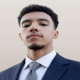
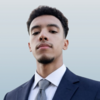
Handle main template view displaying account breif info in the nav bar

diff --git a/src/main/java/com/effortcure/service/implementation/AccountService.java b/src/main/java/com/effortcure/service/implementation/AccountService.java
@@ -3,6 +3,7 @@ package com.effortcure.service.implementation;
 import com.effortcure.api.AccountApi;
 import com.effortcure.dto.request.ChangePasswordRequestDTO;
 import com.effortcure.dto.response.ApiResponse;
+import com.effortcure.dto.response.BreifAccountInfoResponseDTO;
 import com.effortcure.navigator.SceneManager;
 import com.effortcure.service.interfaces.AccountServiceInterface;
 import com.effortcure.service.interfaces.AuthServiceInterface;
@@ -25,6 +26,25 @@ public class AccountService implements AccountServiceInterface {
             }
             if (response.getStatus() == 200) {
                 authServiceInterface.logout();
+            }
+            if (response.getStatus() == 401) {
+                SceneManager.switchScene("/fxml/login-page.fxml", null);
+                authServiceInterface.logout();
+            }
+        } else {
+            SceneManager.switchScene("/fxml/login-page.fxml", null);
+            authServiceInterface.logout();
+        }
+        return response;
+    }
+
+    @Override
+    public ApiResponse<BreifAccountInfoResponseDTO> getBreifAccountInfo() throws Exception {
+        ApiResponse<BreifAccountInfoResponseDTO> response = accountApi.getBreifAccountInfo();
+        if (response != null) {
+            if (response.getStatus() == 400) {
+                authServiceInterface.refreshAccessAndRefreshTokens();
+                response = accountApi.getBreifAccountInfo();
             }
             if (response.getStatus() == 401) {
                 SceneManager.switchScene("/fxml/login-page.fxml", null);

diff --git a/src/main/java/com/effortcure/controller/MainTemplateController.java b/src/main/java/com/effortcure/controller/MainTemplateController.java
@@ -1,7 +1,12 @@
 package com.effortcure.controller;
 
+import com.effortcure.dto.response.ApiResponse;
+import com.effortcure.dto.response.BreifAccountInfoResponseDTO;
+import com.effortcure.service.implementation.AccountService;
+import com.effortcure.service.interfaces.AccountServiceInterface;
 import com.effortcure.util.ViewUtil;
 
+import javafx.concurrent.Task;
 import javafx.fxml.FXML;
 import javafx.scene.control.Button;
 import javafx.scene.control.Hyperlink;
@@ -122,8 +127,26 @@ public class MainTemplateController {
     @FXML
     private Pane rightControlsPane;
 
+    private AccountServiceInterface accountServiceInterface = new AccountService();
+
     @FXML
     private void initialize() {
+        Task<Void> task = new Task<>() {
+            @Override
+            protected Void call() throws Exception {
+                ApiResponse<BreifAccountInfoResponseDTO> response = accountServiceInterface.getBreifAccountInfo();
+                if (response != null) {
+                    if (response.getStatus() == 200) {
+                        userNameLabel.setText(response.getData().getUsername());
+                        valueText.setText(
+                                (response.getData().getDws()) != null ? response.getData().getDws().toString() : null);
+                        planLabel.setText(response.getData().getPlan());
+                    }
+                }
+                return null;
+            }
+        };
+        new Thread(task).run();
         ViewUtil.initiateResponsiveView(this);
     }
 

diff --git a/src/main/java/com/effortcure/MainApp.java b/src/main/java/com/effortcure/MainApp.java
@@ -1,8 +1,9 @@
 package com.effortcure;
 
-import java.io.IOException;
-
+import com.effortcure.auth.RefreshTokenManager;
 import com.effortcure.navigator.SceneManager;
+import com.effortcure.service.implementation.AuthService;
+import com.effortcure.service.interfaces.AuthServiceInterface;
 import com.effortcure.util.ViewUtil;
 
 import javafx.application.Application;
@@ -10,14 +11,20 @@ import javafx.stage.Stage;
 
 public class MainApp extends Application {
 
+    AuthServiceInterface authServiceInterface = new AuthService();
+
     @Override
-    public void start(Stage stage) throws IOException {
+    public void start(Stage stage) throws Exception {
         ViewUtil.LoadFonts(new String[] { "/fonts/K2D-Regular.ttf", "/fonts/K2D-SemiBold.ttf", "/fonts/K2D-Bold.ttf" });
         double[] screenDimensions = ViewUtil.getPlatformFullScreenViewDimensions();
         System.setProperty("os.screen.width", String.valueOf(screenDimensions[0]));
         System.setProperty("os.screen.hight", String.valueOf(screenDimensions[1]));
         SceneManager.setStage(stage);
-        SceneManager.switchScene("/fxml/main-template.fxml", null);
+        if (RefreshTokenManager.getRefreshToken() != null) {
+            authServiceInterface.refreshAccessAndRefreshTokens();
+            SceneManager.switchScene("/fxml/main-template.fxml", null);
+        } else
+            SceneManager.switchScene("/fxml/login-page.fxml", null);
     }
 
     public static void main(String[] args) {

diff --git a/src/main/java/com/effortcure/api/AccountApi.java b/src/main/java/com/effortcure/api/AccountApi.java
@@ -5,6 +5,7 @@ import java.net.http.HttpResponse;
 import com.effortcure.auth.AccessTokenManager;
 import com.effortcure.dto.request.ChangePasswordRequestDTO;
 import com.effortcure.dto.response.ApiResponse;
+import com.effortcure.dto.response.BreifAccountInfoResponseDTO;
 import com.effortcure.util.ApiClientUtil;
 import com.effortcure.util.JsonUtil;
 import com.fasterxml.jackson.core.type.TypeReference;
@@ -18,6 +19,15 @@ public class AccountApi {
         if (response.statusCode() == 403)
             return null;
         return JsonUtil.fromJson(response.body(), new TypeReference<ApiResponse<Void>>() {
+        });
+    }
+
+    public ApiResponse<BreifAccountInfoResponseDTO> getBreifAccountInfo() throws Exception {
+        HttpResponse<String> response = ApiClientUtil.get(BASE_URL + "profile-breif", null,
+                AccessTokenManager.getInstance().getAccessToken(), null);
+        if (response.statusCode() == 403)
+            return null;
+        return JsonUtil.fromJson(response.body(), new TypeReference<ApiResponse<BreifAccountInfoResponseDTO>>() {
         });
     }
 }

diff --git a/src/main/java/com/effortcure/dto/response/BreifAccountInfoResponseDTO.java b/src/main/java/com/effortcure/dto/response/BreifAccountInfoResponseDTO.java
@@ -1,0 +1,43 @@
+package com.effortcure.dto.response;
+
+import java.math.BigDecimal;
+
+public class BreifAccountInfoResponseDTO {
+    private String username;
+    private BigDecimal dws;
+    private String plan;
+
+    public BreifAccountInfoResponseDTO() {
+    }
+
+    public BreifAccountInfoResponseDTO(String username, BigDecimal dws, String plan) {
+        this.username = username;
+        this.dws = dws;
+        this.plan = plan;
+    }
+
+    public String getUsername() {
+        return username;
+    }
+
+    public void setUsername(String username) {
+        this.username = username;
+    }
+
+    public BigDecimal getDws() {
+        return dws;
+    }
+
+    public void setDws(BigDecimal dws) {
+        this.dws = dws;
+    }
+
+    public String getPlan() {
+        return plan;
+    }
+
+    public void setPlan(String plan) {
+        this.plan = plan;
+    }
+
+}

diff --git a/src/main/java/com/effortcure/service/interfaces/AccountServiceInterface.java b/src/main/java/com/effortcure/service/interfaces/AccountServiceInterface.java
@@ -1,7 +1,10 @@
 package com.effortcure.service.interfaces;
 
 import com.effortcure.dto.response.ApiResponse;
+import com.effortcure.dto.response.BreifAccountInfoResponseDTO;
 
 public interface AccountServiceInterface {
     public ApiResponse<Void> changePassword(String password, String confirmPassword) throws Exception;
+
+    public ApiResponse<BreifAccountInfoResponseDTO> getBreifAccountInfo() throws Exception;
 }
